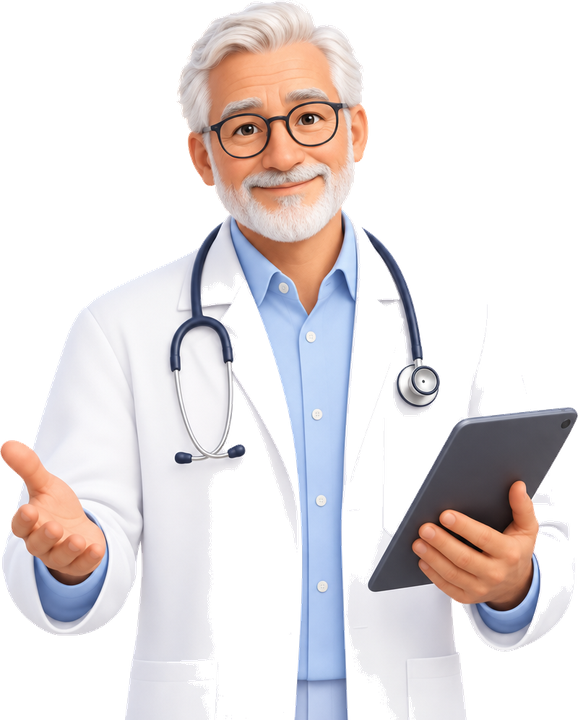
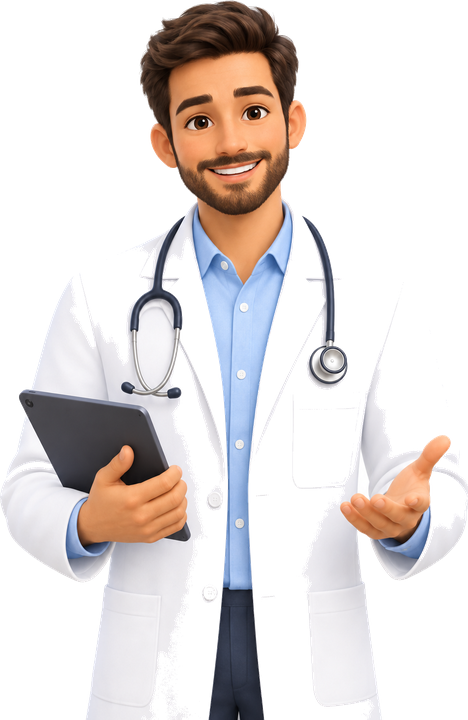
fix: coach doctor image, hobby tile contrast, demo goals CTA

diff --git a/components/coach/CoachView.tsx b/components/coach/CoachView.tsx
@@ -8,6 +8,7 @@ import { MascotNote } from "@/components/mascot/MascotNote";
 import { COACH_AREAS, type CoachArea, type Recommendation } from "@/lib/coach";
 import type { TranslationKey } from "@/lib/i18n";
 import type { GoalId } from "@/lib/onboarding/types";
+import type { DataOwner } from "@/lib/user-data";
 import type { HealthMetric, Identity } from "@/types";
 
 const AREA_STYLE: Record<CoachArea, { chip: string }> = {
@@ -80,11 +81,13 @@ export function CoachView({
   recommendations,
   goals,
   identity,
+  owner,
 }: {
   recommendations: Recommendation[];
   metrics: HealthMetric[];
   goals: GoalId[];
   identity: Identity;
+  owner: DataOwner;
 }) {
   const { t, locale } = useLocale();
   const firstName = (identity.localizedName?.[locale] ?? identity.fullName).split(" ")[0];
@@ -119,7 +122,7 @@ export function CoachView({
           <div className="relative w-[45%] max-w-[180px] shrink-0 self-end md:max-w-[260px]">
             <Image
               src="/coach/doctor.png"
-              width={289}
+              width={234}
               height={360}
               alt={t("coach.doctorAlt")}
               priority
@@ -154,12 +157,18 @@ export function CoachView({
         <div className="mt-4 flex flex-wrap items-center gap-2">
           <span className="text-xs font-semibold text-ink-2">{t("coach.yourGoals")}</span>
           {goals.length === 0 ? (
-            <Link
-              href="/onboarding?step=2"
-              className="press rounded-full bg-brand px-3.5 py-1.5 text-xs font-semibold text-white"
-            >
-              {t("coach.addGoals")}
-            </Link>
+            owner === "fatima" ? (
+              <span className="rounded-full bg-brand-soft px-2.5 py-1 text-xs font-medium text-brand-deep">
+                {t("coach.demoGoals")}
+              </span>
+            ) : (
+              <Link
+                href="/onboarding?step=2"
+                className="press rounded-full bg-brand px-3.5 py-1.5 text-xs font-semibold text-white"
+              >
+                {t("coach.addGoals")}
+              </Link>
+            )
           ) : (
             goals.map((g) => (
               <span

diff --git a/lib/i18n.ts b/lib/i18n.ts
@@ -392,6 +392,7 @@ const coachStrings = {
   "coach.area.lifestyle": ["Preferences & Lifestyle", "التفضيلات ونمط الحياة"],
   "coach.yourGoals": ["Your goals", "أهدافك"],
   "coach.addGoals": ["Add your goals", "أضف أهدافك"],
+  "coach.demoGoals": ["Demo profile — goals appear here for members", "ملف تجريبي — تظهر الأهداف هنا للأعضاء"],
   "coach.recommendations": ["Personalized recommendations", "توصيات مخصصة لك"],
   "coach.rec.sleepBelow": ["Aim for a consistent bedtime tonight — your sleep is {percent}% under your baseline.", "التزم بموعد نوم ثابت الليلة — نومك أقل بنسبة {percent}% من خط أساسك."],
   "coach.rec.recoveryLow": ["Recovery is {percent}% below your usual — consider a lighter session and an earlier night.", "التعافي أقل بنسبة {percent}% من المعتاد — جرّب تمرينًا أخف ونومًا أبكر."],

diff --git a/components/community/CommunityView.tsx b/components/community/CommunityView.tsx
@@ -90,8 +90,10 @@ export function CommunityView({ city, goals }: { city: string; goals: GoalId[] }
                 type="button"
                 onClick={() => toggleHobby(hobby)}
                 aria-pressed={selected}
-                className={`press card flex flex-col items-start gap-2 p-4 text-start transition ${
-                  selected ? "bg-brand text-white ring-2 ring-brand" : ""
+                className={`press flex flex-col items-start gap-2 p-4 text-start transition ${
+                  selected
+                    ? "rounded-[1.25rem] border border-brand bg-brand text-white shadow-sm ring-2 ring-brand"
+                    : "card"
                 }`}
               >
                 <span

diff --git a/app/(core)/coach/page.tsx b/app/(core)/coach/page.tsx
@@ -18,6 +18,7 @@ export default async function CoachPage() {
       metrics={data.metrics}
       goals={goals}
       identity={data.identity}
+      owner={data.owner}
     />
   );
 }
